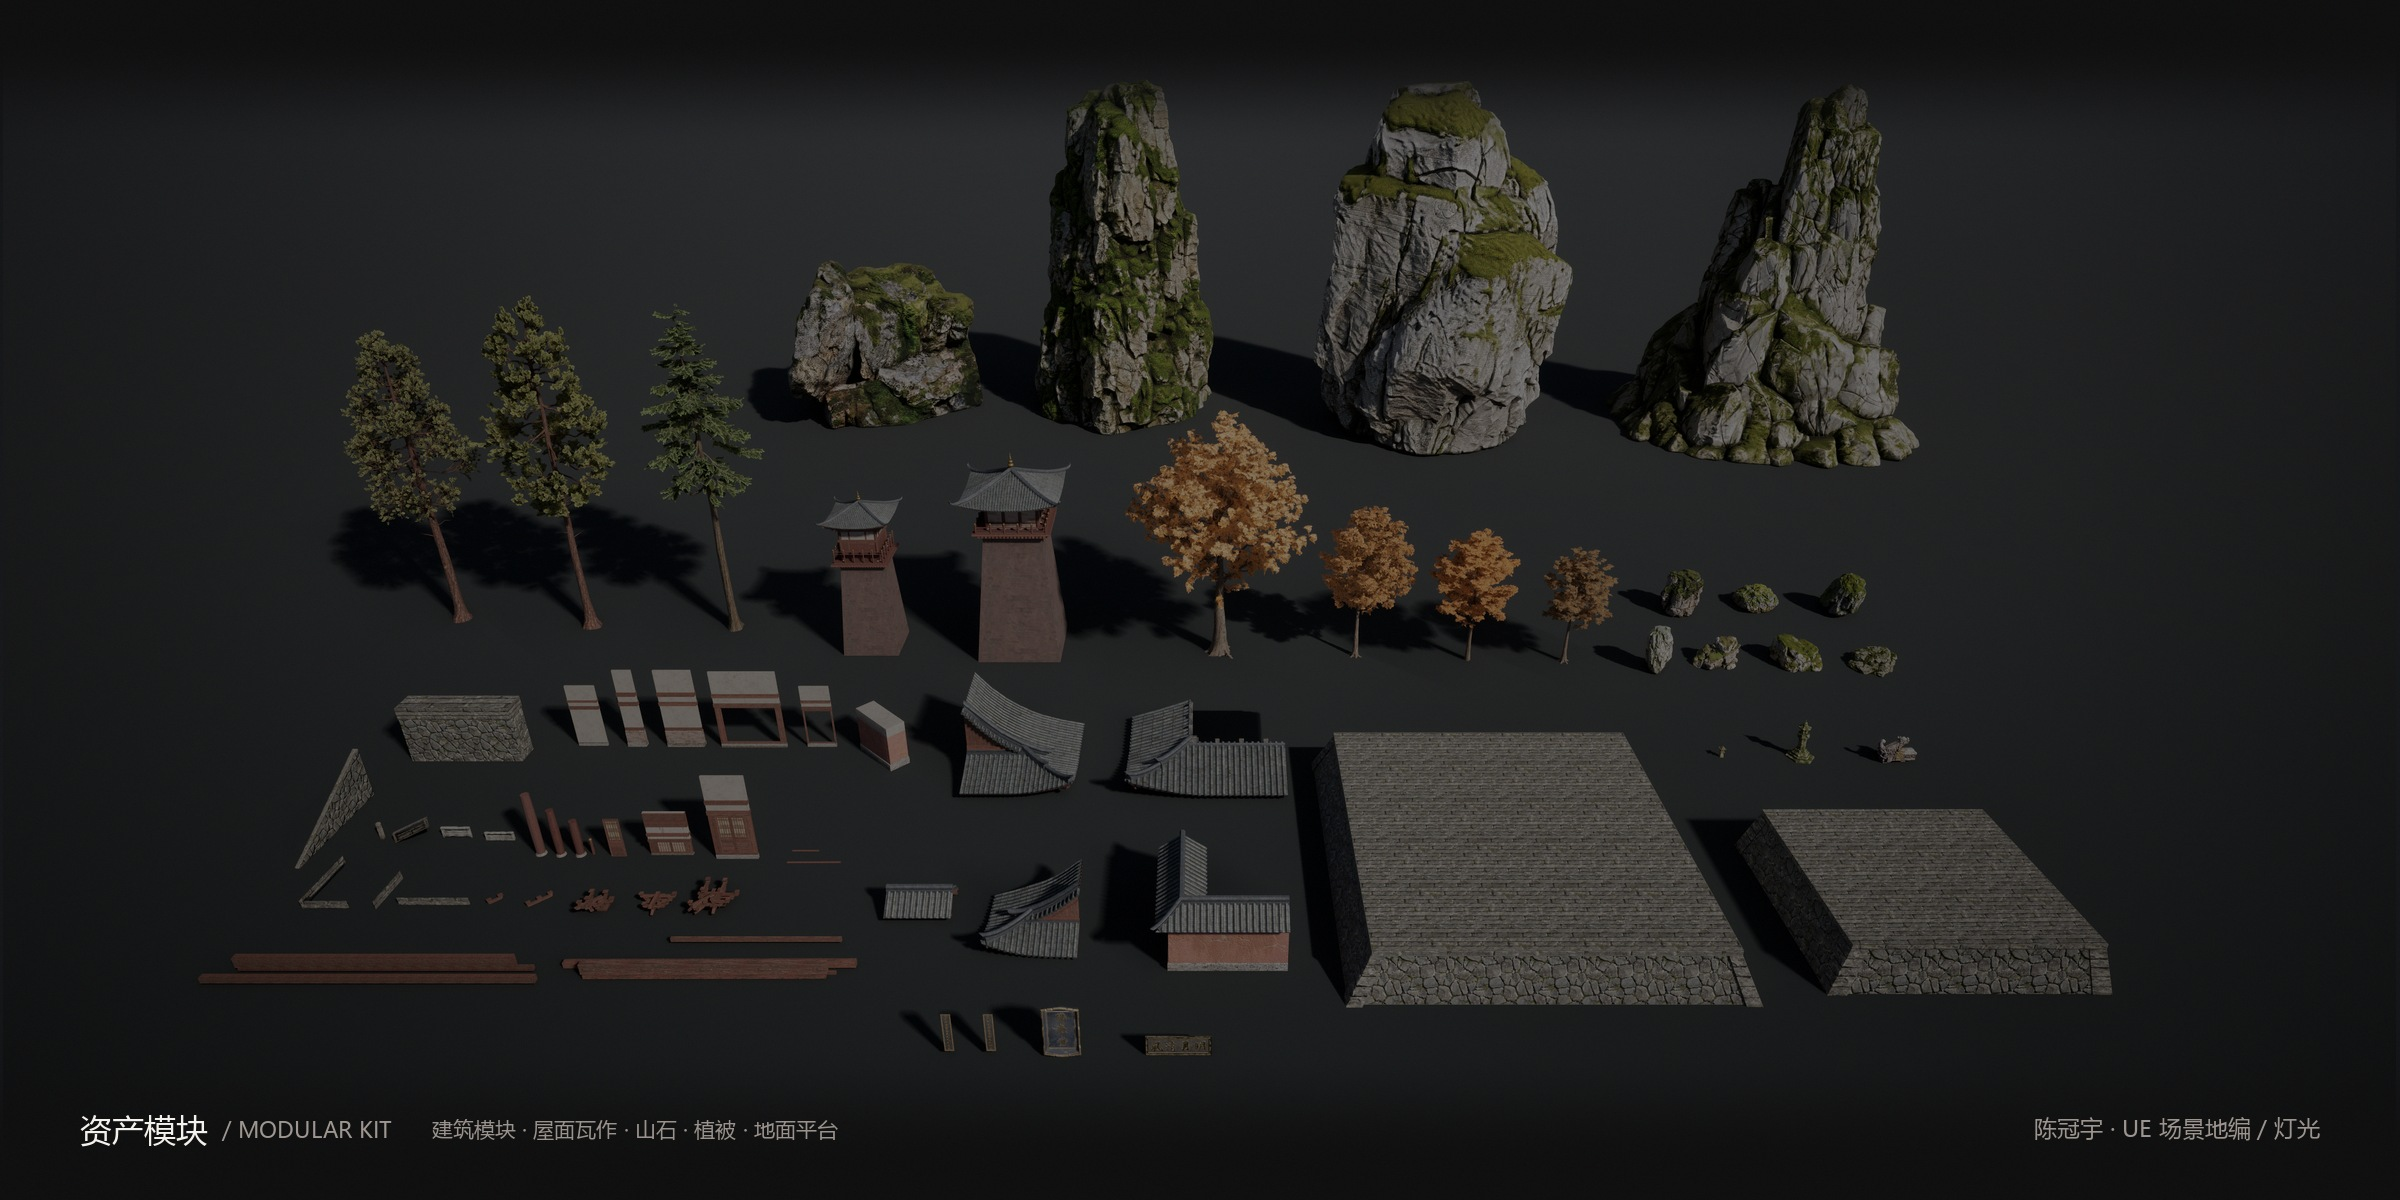
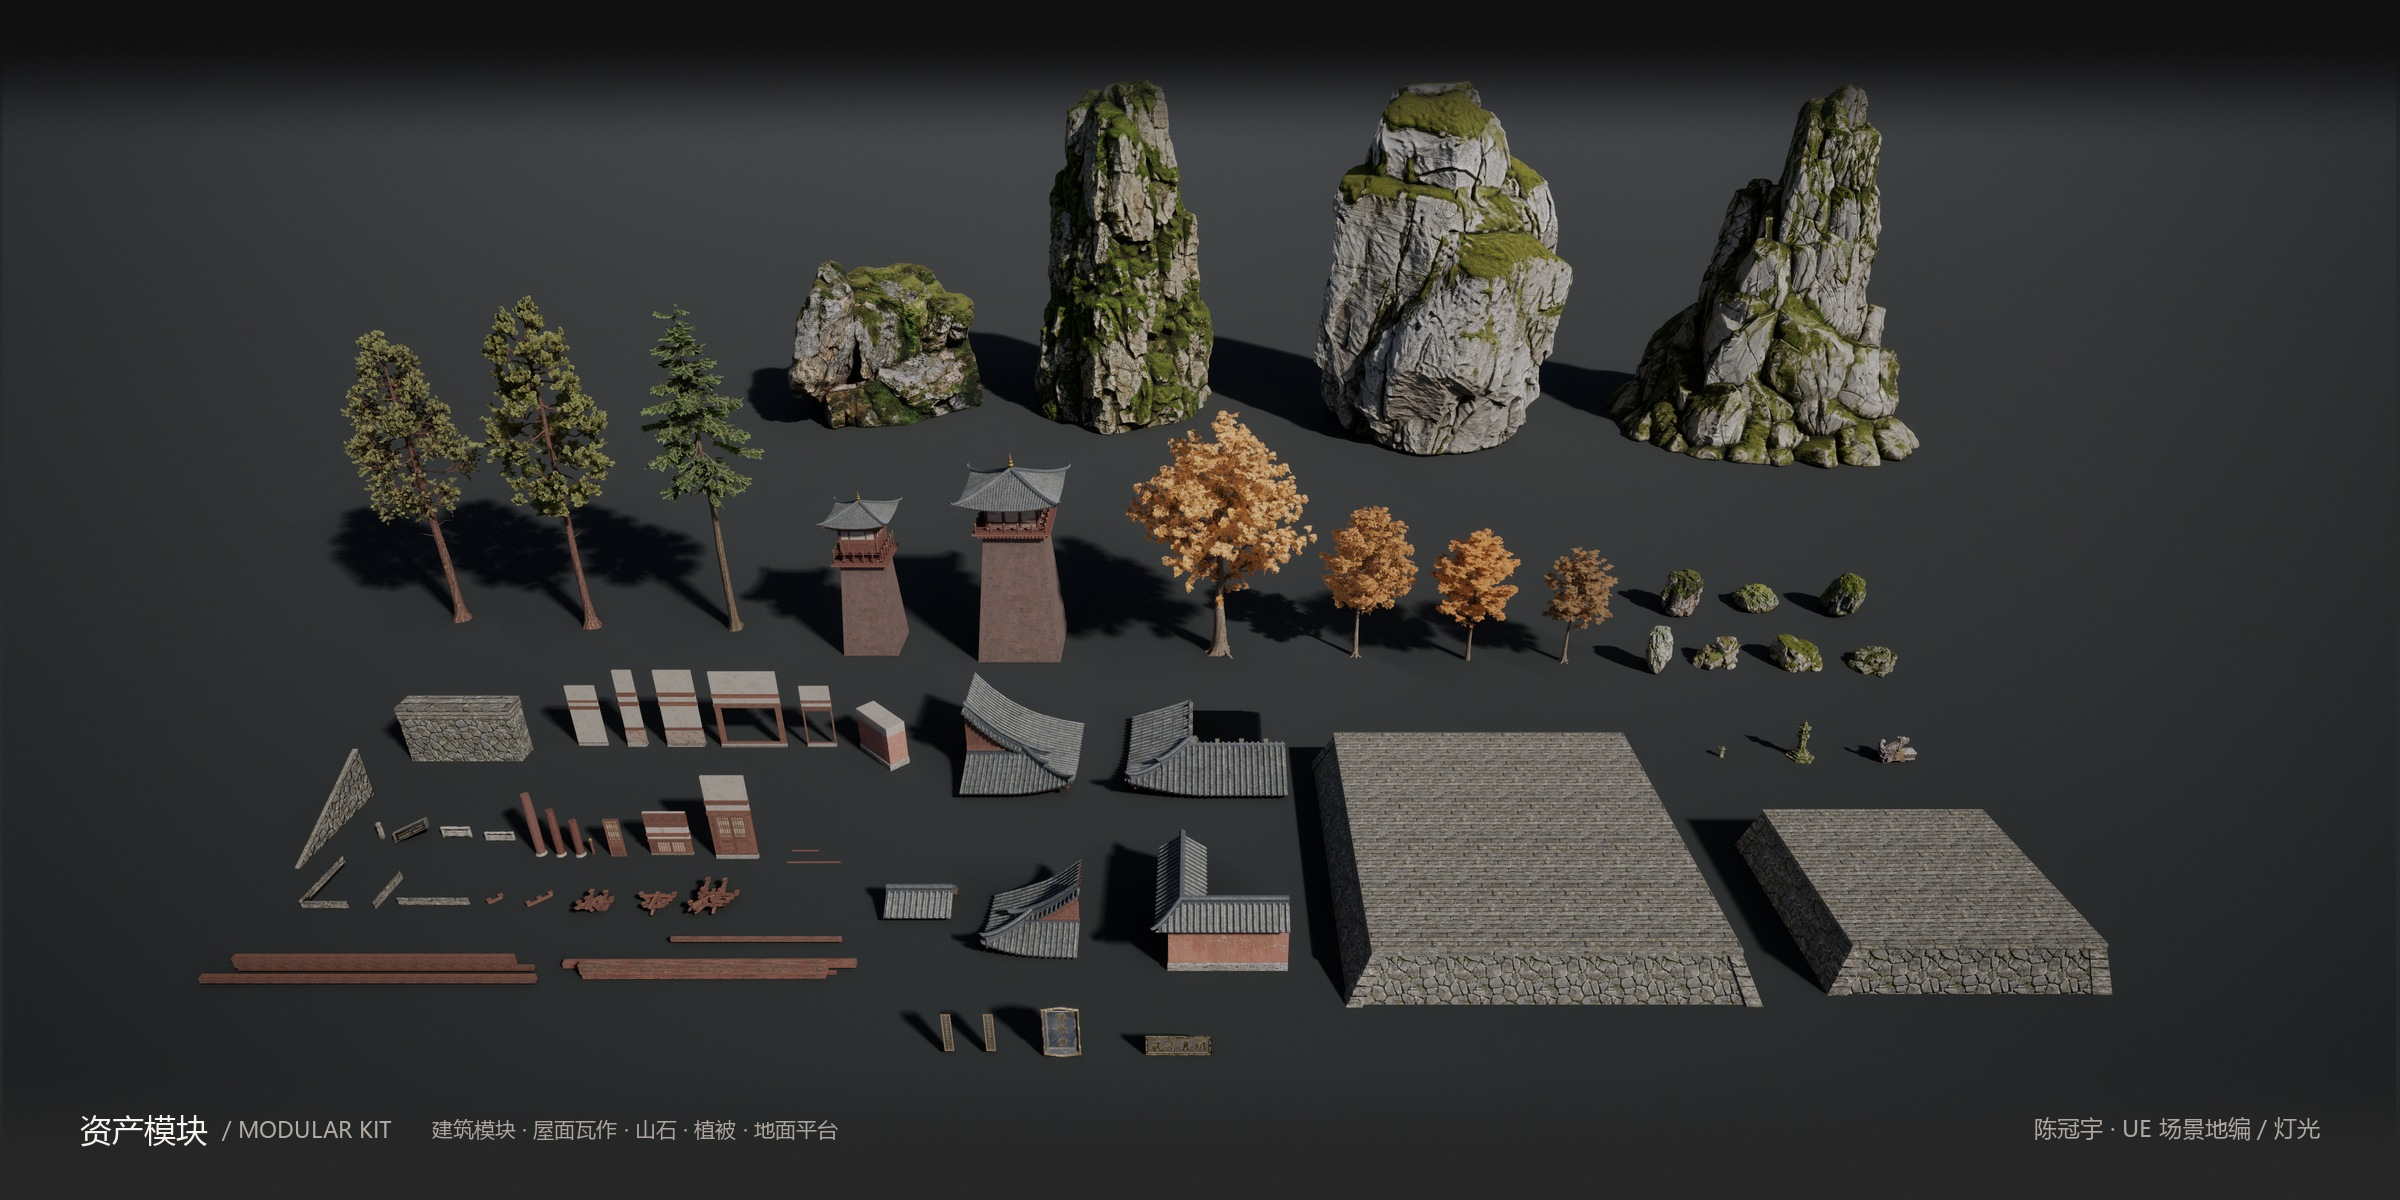
材质改名（剥落红漆墙/水洼泥地/青苔屋瓦面）；资产模块图亮度回调到 52.7，不再压暗

diff --git a/resume/index.html b/resume/index.html
@@ -1544,7 +1544,7 @@ body{padding:0 !important;background:#fff !important;display:block !important;}
     <div class="ph"><div class="ph-row"><span class="ph-n">05</span><span class="ph-t">材质 / Materials</span><span class="ph-m">程序化材质 · 20 组 · 4K</span></div>
       <div class="ph-resp">Substance Designer 全节点搭建：砌筑石材、涂装、地面、植被、瓦作与木作，全部 4K 无缝输出，直接进引擎。统一以圆柱体测试，保证各材质在曲面上仍保持细节密度与尺度一致。</div></div>
     <div class="matwrap">
-      <div class="band matband"><img src="../assets/mat8_3.jpg" alt="材质渲染 · 精选四条：红漆墙 02 / 粗石墙 / 水面 / 瓦屋面 02"></div>
+      <div class="band matband"><img src="../assets/mat8_3.jpg" alt="材质渲染 · 精选四条：剥落红漆墙 / 粗石墙 / 水洼泥地 / 青苔屋瓦面"></div>
       <div class="band matband"><img src="../assets/mat8_1.jpg" alt="材质渲染 · 墙体与地面 8 组"></div>
       <div class="band matband"><img src="../assets/mat8_2.jpg" alt="材质渲染 · 自然瓦作构件 8 组"></div>
       <div class="band matband"><img src="../assets/mat_kit.jpg" alt="资产模块总览：建筑模块 / 屋面瓦作 / 山石 / 植被 / 地面平台"></div>

diff --git a/index.html b/index.html
@@ -269,7 +269,7 @@ footer::before{content:'';position:absolute;left:0;top:0;width:100%;height:3px;b
       <figure class="shot"><img src="assets/kill_04.jpg" data-gallery="g4" data-i="6" loading="lazy" alt="个人作品场景"></figure>
     </div>
     <div class="stack auto nocap">
-      <figure class="shot"><img src="assets/mat8_3.jpg" data-gallery="g4" data-i="7" loading="lazy" alt="材质渲染 · 精选四条：红漆墙 02 / 粗石墙 / 水面 / 瓦屋面 02"></figure>
+      <figure class="shot"><img src="assets/mat8_3.jpg" data-gallery="g4" data-i="7" loading="lazy" alt="材质渲染 · 精选四条：剥落红漆墙 / 粗石墙 / 水洼泥地 / 青苔屋瓦面"></figure>
       <figure class="shot"><img src="assets/mat8_1.jpg" data-gallery="g4" data-i="8" loading="lazy" alt="材质渲染 · 墙体与地面 8 组"></figure>
       <figure class="shot"><img src="assets/mat8_2.jpg" data-gallery="g4" data-i="9" loading="lazy" alt="材质渲染 · 自然瓦作构件 8 组"></figure>
       <figure class="shot"><img src="assets/mat_kit.jpg" data-gallery="g4" data-i="10" loading="lazy" alt="资产模块总览：建筑模块 / 屋面瓦作 / 山石 / 植被 / 地面平台"></figure>
